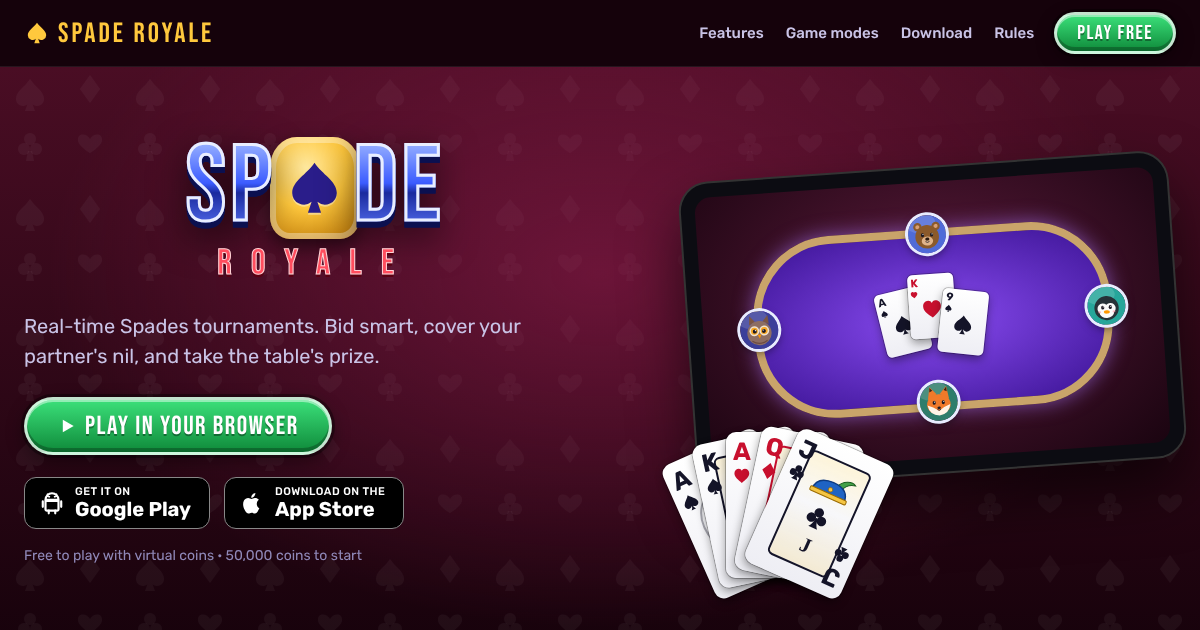
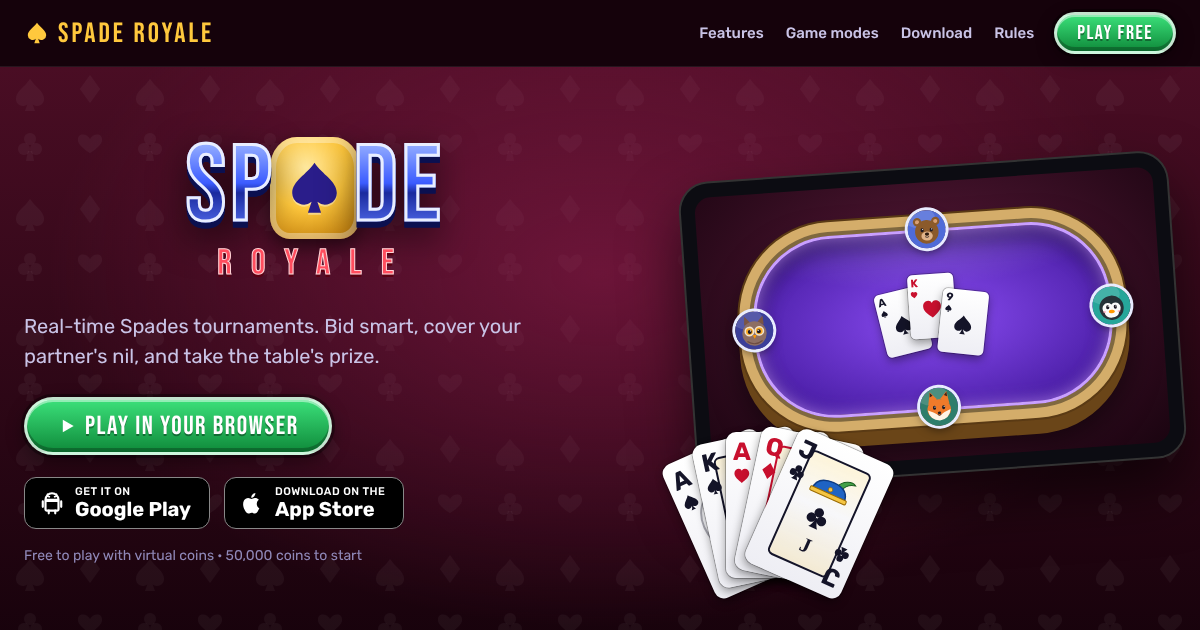
3D tables: beveled gold rail, neon felt edge, recessed felt, rail inlays
Claude-Session: https://claude.ai/code/session_01PWa2B4iDU7CicfqyxjsCry

Changed region(s): [[0.5858, 0.3016, 0.9558, 0.7238]]

diff --git a/src/styles.css b/src/styles.css
@@ -392,7 +392,7 @@ button.mode-card:hover { transform: translateY(-6px) scale(1.02); }
 .plus-big { width: 96px; height: 96px; border-radius: 50%; display: grid; place-items: center; background: rgba(255,255,255,.12); }
 .live-tag { position: absolute; top: 8px; left: 8px; padding: 2px 8px; border-radius: 6px; background: var(--red); font: 400 16px var(--display); letter-spacing: 1px; }
 .tt-city { font: italic 700 26px Georgia, serif; color: var(--gold); }
-.tt-felt { position: relative; width: 100%; flex: 1; border-radius: 40px; background: radial-gradient(ellipse, #7a3cf0, #3a148a); border: 3px solid #b48bff; }
+.tt-felt { position: relative; width: calc(100% - 26px); margin: 8px 0 6px; flex: 1; border-radius: 40px; background: radial-gradient(ellipse 75% 45% at 50% 0%, rgba(255,255,255,.18), transparent 70%), radial-gradient(ellipse, #7a3cf0, #3a148a); border: 3px solid #c9a0ff; box-shadow: 0 0 0 5px #3a2410, 0 0 0 9px #d9b878, 0 0 0 11px #5a3a14, 0 0 14px 10px rgba(170,120,255,.35), inset 0 0 14px rgba(190,140,255,.7), inset 0 8px 18px rgba(0,0,0,.45); }
 .tt-seat { position: absolute; }
 .tt-seat.s0 { bottom: -12px; left: 50%; transform: translateX(-50%); }
 .tt-seat.s1 { left: -10px; top: 50%; transform: translateY(-50%); }
@@ -412,10 +412,29 @@ button.mode-card:hover { transform: translateY(-6px) scale(1.02); }
 .round-ui { position: relative; width: 84px; height: 54px; border-radius: 999px; display: grid; place-items: center; background: linear-gradient(180deg, #4d63ff, #1a2390); border: 3px solid #d7deff; box-shadow: 0 0 0 3px rgba(0,0,0,.45); }
 
 .felt-wrap { position: absolute; top: 60px; left: 70px; right: 70px; bottom: 172px; }
-.felt { position: absolute; inset: 0; border-radius: 120px / 110px; padding: 16px;
-  background: var(--rim, linear-gradient(135deg, #f2d9a6, #b88a4a 40%, #f0d6a0 60%, #a07338)); box-shadow: 0 0 0 3px var(--rim-edge, #4a2c10), 0 20px 40px rgba(0,0,0,.6); transition: background .4s; }
-.felt::before { content: ''; position: absolute; inset: 16px; border-radius: 104px / 96px; background: radial-gradient(ellipse at 50% 40%, var(--felt-a, #8a4cf2), var(--felt-b, #5a24c4) 55%, var(--felt-c, #3b1394)); box-shadow: inset 0 0 0 4px var(--felt-line, #c9a0ff), inset 0 0 40px rgba(0,0,0,.45), 0 0 26px var(--felt-glow, rgba(170,120,255,.7)); }
-.felt::after { content: '♠ ♥ ♣ ♦'; position: absolute; bottom: 0; left: 50%; transform: translateX(-50%); font-size: 18px; letter-spacing: 6px; color: #3b2a12; }
+.felt-base { position: absolute; inset: 10px 0 -14px; border-radius: 96px / 92px; background: linear-gradient(180deg, transparent 40%, rgba(0,0,0,.55)), var(--rim, #a07338); filter: brightness(.45) saturate(1.2); box-shadow: 0 26px 40px rgba(0,0,0,.7), 0 0 0 3px var(--rim-edge, #4a2c10); }
+/* Thick beveled rail: theme colour + light from above + inner bevel */
+.felt { position: absolute; inset: 0; border-radius: 96px / 92px; padding: 28px;
+  background:
+    linear-gradient(180deg, rgba(255,255,255,.6) 0, rgba(255,255,255,.1) 8%, rgba(0,0,0,.08) 16%, rgba(0,0,0,0) 30%, rgba(0,0,0,0) 66%, rgba(0,0,0,.22) 84%, rgba(0,0,0,.5) 100%),
+    linear-gradient(90deg, rgba(0,0,0,.25), rgba(0,0,0,0) 10%, rgba(0,0,0,0) 90%, rgba(0,0,0,.25)),
+    var(--rim, linear-gradient(135deg, #f2d9a6, #b88a4a 40%, #f0d6a0 60%, #a07338));
+  box-shadow: 0 0 0 3px var(--rim-edge, #4a2c10), inset 0 3px 1px rgba(255,255,255,.75), inset 0 -4px 3px rgba(0,0,0,.35), inset 0 0 0 1px rgba(255,255,255,.25);
+  transition: background .4s; }
+/* Recessed felt with a glowing neon strip just inside the rail */
+.felt::before { content: ''; position: absolute; inset: 28px; border-radius: 70px / 66px;
+  background:
+    radial-gradient(ellipse 75% 45% at 50% 0%, rgba(255,255,255,.16), rgba(255,255,255,0) 70%),
+    repeating-linear-gradient(45deg, rgba(255,255,255,.025) 0 2px, rgba(0,0,0,.025) 2px 4px),
+    radial-gradient(ellipse at 50% 42%, var(--felt-a, #8a4cf2), var(--felt-b, #5a24c4) 58%, var(--felt-c, #3b1394));
+  border: 3px solid var(--felt-line, #c9a0ff);
+  box-shadow: 0 0 6px 1px var(--felt-line, #c9a0ff), 0 0 0 5px rgba(0,0,0,.55), 0 0 0 6px rgba(255,255,255,.3),
+    inset 0 0 8px 2px var(--felt-line, #c9a0ff), inset 0 0 30px 6px var(--felt-glow, rgba(170,120,255,.7)), inset 0 14px 30px rgba(0,0,0,.45), inset 0 0 90px rgba(0,0,0,.4); }
+/* Gloss streak along the top of the rail */
+.felt::after { content: ''; position: absolute; top: 5px; left: 12%; right: 12%; height: 9px; border-radius: 9px; background: linear-gradient(90deg, rgba(255,255,255,0), rgba(255,255,255,.7) 30%, rgba(255,255,255,.85) 50%, rgba(255,255,255,.7) 70%, rgba(255,255,255,0)); filter: blur(1.5px); pointer-events: none; }
+.rail-inlay { position: absolute; bottom: 3px; font-size: 15px; letter-spacing: 3px; color: rgba(30,18,6,.75); text-shadow: 0 1px 0 rgba(255,255,255,.55); padding: 1px 10px; border-radius: 8px; background: rgba(0,0,0,.12); box-shadow: inset 0 1px 2px rgba(0,0,0,.45), 0 1px 0 rgba(255,255,255,.4); pointer-events: none; }
+.rail-inlay.l { left: 30%; } .rail-inlay.r { right: 30%; }
+.info-panel { box-shadow: inset 0 3px 10px rgba(0,0,0,.35), 0 1px 0 rgba(255,255,255,.18); backdrop-filter: blur(2px); }
 .info-panel { position: absolute; left: 13%; top: 50%; transform: translateY(-50%); width: 210px; padding: 12px 18px; border-radius: 26px; border: 3px solid var(--panel-line, rgba(220,200,255,.6)); background: var(--panel, rgba(60,20,140,.45)); color: var(--panel-text, #d9c8ff); z-index: 1; display: flex; flex-direction: column; gap: 4px; }
 .ip-city { text-align: center; font: italic 400 30px var(--display); letter-spacing: 2px; border-bottom: 2px solid rgba(220,200,255,.4); padding-bottom: 4px; color: #ead9ff; }
 .ip-row { display: flex; align-items: center; gap: 8px; font: italic 400 30px var(--display); letter-spacing: 1px; padding: 2px 0; border-bottom: 2px solid rgba(220,200,255,.25); }
@@ -622,7 +641,7 @@ button.mode-card:hover { transform: translateY(-6px) scale(1.02); }
 .hero-art { position: relative; height: 440px; }
 .device { position: absolute; right: 0; top: 30px; width: 92%; aspect-ratio: 16 / 10; border-radius: 28px; padding: 14px; background: #0c0c12; box-shadow: 0 0 0 2px #333, 0 30px 60px rgba(0,0,0,.6); transform: rotate(-4deg); }
 .device-screen { width: 100%; height: 100%; border-radius: 16px; overflow: hidden; background: radial-gradient(ellipse at 50% 40%, #5a1a3a, #1a0410); display: grid; place-items: center; }
-.mini-felt { position: relative; width: 78%; height: 66%; border-radius: 80px; background: radial-gradient(ellipse, #8a4cf2, #3b1394); border: 8px solid #c9a46a; box-shadow: 0 0 20px rgba(170,120,255,.6); }
+.mini-felt { position: relative; width: 78%; height: 66%; border-radius: 80px; background: radial-gradient(ellipse 75% 45% at 50% 0%, rgba(255,255,255,.18), transparent 70%), radial-gradient(ellipse, #8a4cf2, #3b1394); border: 3px solid #c9a0ff; box-shadow: 0 0 0 4px rgba(0,0,0,.4), 0 0 0 14px #d4ad6a, 0 0 0 16px #5a3a14, 0 14px 0 16px #6a4518, 0 22px 30px 16px rgba(0,0,0,.55), inset 0 0 16px rgba(190,140,255,.75), inset 0 10px 22px rgba(0,0,0,.45); }
 .mini-seat { position: absolute; }
 .mini-seat.t { top: -22px; left: 50%; transform: translateX(-50%); } .mini-seat.b { bottom: -22px; left: 50%; transform: translateX(-50%); }
 .mini-seat.l { left: -22px; top: 50%; transform: translateY(-50%); } .mini-seat.r { right: -22px; top: 50%; transform: translateY(-50%); }

diff --git a/src/lib/themes.ts b/src/lib/themes.ts
@@ -22,11 +22,11 @@ export interface Theme {
 
 const CLASSIC = { S: '#141428', H: '#c8102e', D: '#c8102e', C: '#141428' };
 const FOUR = { S: '#141428', H: '#d0103a', D: '#1565c0', C: '#1b8a3a' };
-const WOOD = 'linear-gradient(135deg, #f2d9a6, #b88a4a 40%, #f0d6a0 60%, #a07338)';
+const WOOD = 'linear-gradient(180deg, #ffe4a0 0%, #e2ab52 14%, #b9802f 40%, #c99245 62%, #e6b766 82%, #7a4c12 100%)';
 
 export const THEMES: Theme[] = [
   { id: 'royal', name: 'Royal Purple', level: 1,
-    felt: ['#8a4cf2', '#5a24c4', '#3b1394'], feltLine: '#c9a0ff', glow: 'rgba(170,120,255,.7)', rim: WOOD, rimEdge: '#4a2c10',
+    felt: ['#8a4cf2', '#5a24c4', '#3b1394'], feltLine: '#c9a0ff', glow: 'rgba(170,120,255,.7)', rim: WOOD, rimEdge: '#5a3608',
     panel: 'rgba(60,20,140,.45)', panelLine: 'rgba(220,200,255,.6)', panelText: '#e2d6ff',
     cardFace: 'linear-gradient(180deg, #fff, #eeeef4)', cardBack: 'repeating-linear-gradient(45deg, #2a3ad0 0 6px, #1a2390 6px 12px)', cardBackEdge: '#fff', suits: CLASSIC },
   { id: 'emerald', name: 'Emerald', level: 2,

diff --git a/src/screens/Table.tsx b/src/screens/Table.tsx
@@ -130,7 +130,9 @@ export function Table({ ctl, onExit, onPlayAgain }: { ctl: TableController; onEx
       </div>
 
       <div className="felt-wrap">
+        <div className="felt-base" aria-hidden="true" />
         <div className="felt">
+          <span className="rail-inlay l" aria-hidden="true">♠♥♣</span><span className="rail-inlay r" aria-hidden="true">♦♥♠</span>
           <InfoPanel st={st} />
           <ScorePanel st={st} />
           <div className="felt-center">
